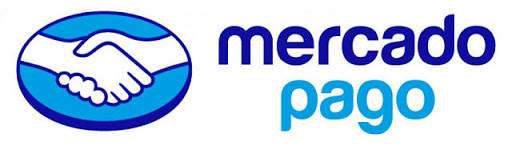
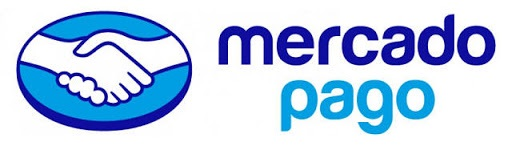
Add files via upload

diff --git a/index.html b/index.html
@@ -476,36 +476,18 @@ body *{
 }
 
 
-@media (max-width:768px){
-  html, body{
-    margin:0;
-    padding:0;
-    height:100%;
-    overflow:hidden;
-  }
-
-  .wrapper{
-    max-width:none;
-    padding:0;
-    height:100%;
-    overflow:hidden;
-  }
-
-  .main{
-    display:flex !important;
-    flex-direction:row !important;
-    grid-template-columns:none !important;
-    width:300vw;
-    height:100vh;
-    transition:transform .45s ease-in-out;
-  }
-
-  .panel{
-    width:100vw;
-    height:100vh;
-    flex-shrink:0;
-    border-radius:0;
-  }
+.donation-btn-box{
+  background:#ffffff;
+  border-radius:14px;
+  padding:10px 16px;
+  display:flex;
+  align-items:center;
+  justify-content:center;
+  transition:transform .2s ease, box-shadow .2s ease;
+}
+.donation-btn-box:hover{
+  transform:translateY(-2px);
+  box-shadow:0 6px 18px rgba(0,0,0,0.35);
 }
 
 </style>
@@ -1043,10 +1025,10 @@ menuPanel.onclick=()=>{
   </div>
   <div class="donation-buttons">
     <a href="https://www.paypal.com/ncp/payment/PTRWET3UWGEY8" target="_blank">
-      <img src="logo paypal ok.png" alt="PayPal">
+      <img src="paypal.png" alt="PayPal">
     </a>
     <a href="https://link.mercadopago.com.ar/ajetrez" target="_blank">
-      <img src="logo mercadopago ok.jpg" alt="MercadoPago">
+      <img src="mercadopago.jpg" alt="MercadoPago">
     </a>
   </div>
 </div>
@@ -1481,10 +1463,10 @@ menuPanel.onclick=()=>{
 
     <div style="display:flex;justify-content:center;gap:28px;margin-top:26px;">
       <a href="https://www.paypal.com/ncp/payment/PTRWET3UWGEY8" target="_blank">
-        <img src="logo paypal ok.png" alt="PayPal" style="height:54px;cursor:pointer;">
+        <img src="paypal.png" alt="PayPal" style="height:54px;cursor:pointer;">
       </a>
       <a href="https://link.mercadopago.com.ar/ajetrez" target="_blank">
-        <img src="logo mercadopago ok.jpg" alt="MercadoPago" style="height:54px;cursor:pointer;">
+        <img src="mercadopago.jpg" alt="MercadoPago" style="height:54px;cursor:pointer;">
       </a>
     </div>
   </div>
@@ -1606,34 +1588,63 @@ document.addEventListener("DOMContentLoaded", () => {
 </script>
 
 
+<!-- ===== MOBILE BLOCKER OVERLAY ===== -->
+<div id="mobile-blocker">
+  <div class="mobile-box">
+    <h2>Versión móvil en desarrollo</h2>
+    <p>
+      El oráculo del I Ching aún no está disponible para dispositivos móviles.<br>
+      Estamos trabajando para ofrecerte la mejor experiencia posible.
+    </p>
+    <p class="soon">Próximamente disponible ✨</p>
+  </div>
+</div>
+
+<style>
+#mobile-blocker{
+  position:fixed;
+  inset:0;
+  background:rgba(0,0,0,0.88);
+  display:none;
+  align-items:center;
+  justify-content:center;
+  z-index:200000;
+}
+#mobile-blocker .mobile-box{
+  background:#ffffff;
+  color:#000000 !important;
+  max-width:90%;
+  padding:28px 24px;
+  border-radius:18px;
+  text-align:center;
+  box-shadow:0 30px 60px rgba(0,0,0,0.6);
+}
+#mobile-blocker h2{
+  margin:0 0 14px 0;
+  font-size:22px;
+}
+#mobile-blocker p{
+  font-size:15px;
+  line-height:1.5;
+}
+#mobile-blocker .soon{
+  margin-top:14px;
+  font-weight:700;
+}
+</style>
+
 <script>
-document.addEventListener("DOMContentLoaded", () => {
-  if(window.innerWidth > 768) return;
-
-  const main = document.querySelector('.main');
-
-  // pasos: centro → izquierda → derecha → centro (resultado)
-  const steps = [1, 0, 2, 1];
-  let step = 0;
-
-  function goStep(){
-    if(step >= steps.length) return;
-    main.style.transform = `translateX(-${steps[step] * 100}vw)`;
-    step++;
+(function(){
+  function esMovil(){
+    return window.innerWidth <= 768;
   }
-
-  // inicio forzado en panel central
-  main.style.transform = `translateX(-${steps[0] * 100}vw)`;
-  step = 1;
-
-  // API pública
-  window.nextStep = goStep;
-  window.resetToCenter = function(){
-    step = 1;
-    main.style.transform = `translateX(-${steps[0] * 100}vw)`;
-  };
-});
+  if(esMovil()){
+    var blk = document.getElementById("mobile-blocker");
+    if(blk){ blk.style.display = "flex"; }
+  }
+})();
 </script>
+<!-- ===== END MOBILE BLOCKER ===== -->
 
 </body>
 
